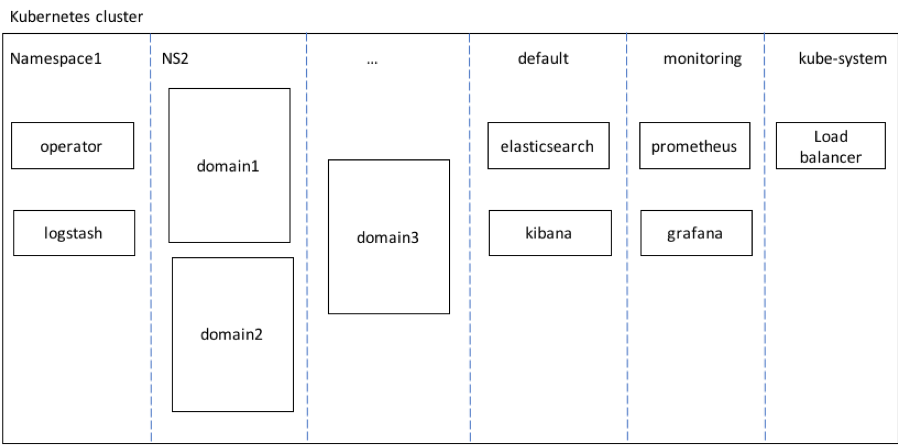
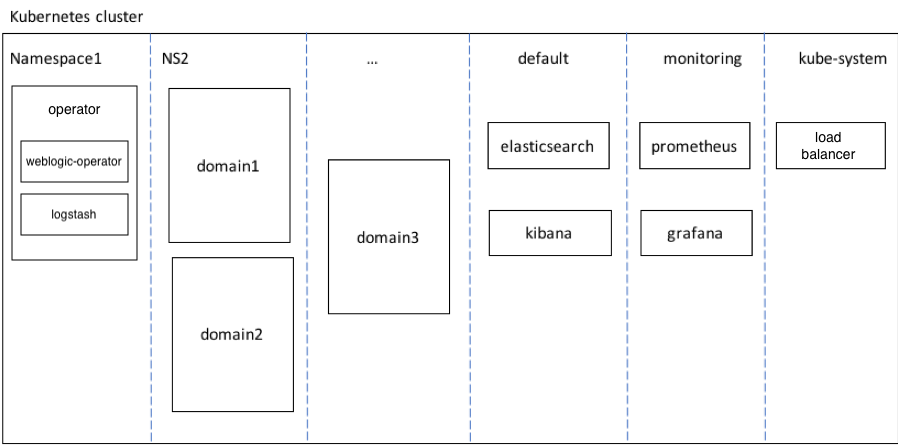
OWLS-94850 - decouple logstash config from Operator (#2736)
* decouple logstash config from Operator

diff --git a/documentation/staging/content/userguide/managing-operators/using-helm.md b/documentation/staging/content/userguide/managing-operators/using-helm.md
@@ -37,6 +37,7 @@ description: "An operator runtime is installed and configured using Helm. Here a
     - [`logStashImage`](#logstashimage)
     - [`elasticSearchHost`](#elasticsearchhost)
     - [`elasticSearchPort`](#elasticsearchport)
+    - [`createLogStashConfigMap`](#createlogstashconfigmap)
   - [REST interface configuration](#rest-interface-configuration)
     - [`externalRestEnabled`](#externalrestenabled)
     - [`externalRestHttpsPort`](#externalresthttpsport)
@@ -481,7 +482,7 @@ Defaults to `logstash:6.6.0`.
 
 Example:
 ```yaml
-logStashImage:  "logstash:6.2"
+logStashImage:  "docker.elastic.co/logstash/logstash:6.2.0"
 ```
 
 ##### `elasticSearchHost`
@@ -502,6 +503,20 @@ Defaults to `9200`.
 Example:
 ```yaml
 elasticSearchPort: 9201
+```
+
+##### `createLogStashConfigMap`
+Specifies whether a ConfigMap named `weblogic-operator-logstash-cm` should be created during `helm install`. 
+The ConfigMap contains the Logstash pipeline configuration for the Logstash container running in the operator pod.
+If set to `true`, a ConfigMap will be created during `helm install` using the `logstash.conf` file in the `kubernetes/samples/charts/weblogic-operator` directory.
+Set `createLogStashConfigMap` to `false` if the ConfigMap already exists in the operator's namespace with the Logstash configuration provided by the customer.
+This parameter is ignored if `elkIntegrationEnabled` is false. 
+
+Defaults to `true`.
+
+Example:
+```yaml
+createLogStashConfigMap:  false
 ```
 
 #### REST interface configuration

diff --git a/documentation/staging/content/samples/elastic-stack/operator/_index.md b/documentation/staging/content/samples/elastic-stack/operator/_index.md
@@ -14,8 +14,9 @@ You are responsible for configuring Kibana and Elasticsearch, then configuring t
 As part of the Elastic Stack integration, Logstash configuration occurs for each deployed operator instance.  You can use the following configuration values to configure the integration:
 
 * Set `elkIntegrationEnabled` is `true` to enable the integration.
-* Set `logStashImage` to override the default version of Logstash to be used (`logstash:6.2`).
+* Set `logStashImage` to override the default version of Logstash to be used (`logstash:6.6.0`).
 * Set `elasticSearchHost` and `elasticSearchPort` to override the default location where Elasticsearch is running (`elasticsearch2.default.svc.cluster.local:9201`). This will configure Logstash to send the operator's log contents there.
+* Set `createLogStashConfigMap` to `true` to use the default Logstash configuration, or set it to `false` and create a ConfigMap named `weblogic-operator-logstash-cm` in the operator's namespace with your own Logstash pipeline configuration.
 
 For additional details, see [Elastic Stack integration]({{< relref "/userguide/managing-operators/using-helm#elastic-stack-integration" >}}) Helm commands.
 

diff --git a/documentation/staging/content/userguide/introduction/architecture.md b/documentation/staging/content/userguide/introduction/architecture.md
@@ -62,7 +62,7 @@ The Kubernetes cluster has several namespaces. Components may be deployed into n
       its own namespace.
   * There is no limit on the number of domains or namespaces that an operator can manage.  
   * If the Elastic Stack integration option is configured to monitor the operator,
-    then a Logstash pod will also be deployed in the operator’s namespace.
+    then a Logstash container will also be created in the operator’s pod.
 * WebLogic domain resources deployed into various namespaces. 
   * There can be more than one domain in a namespace, if desired.
   * Every domain resource must be configured with a [domain unique identifier](#domain-uid).
